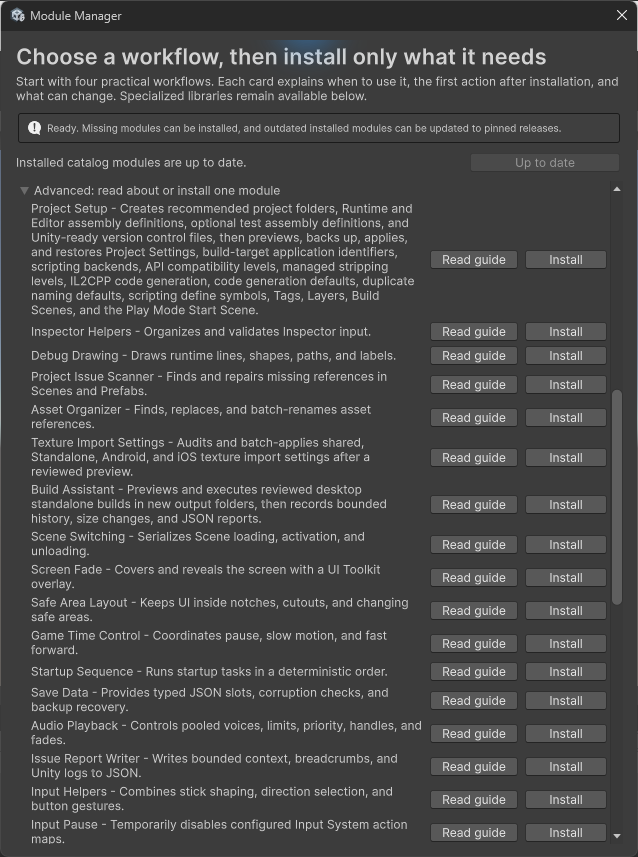
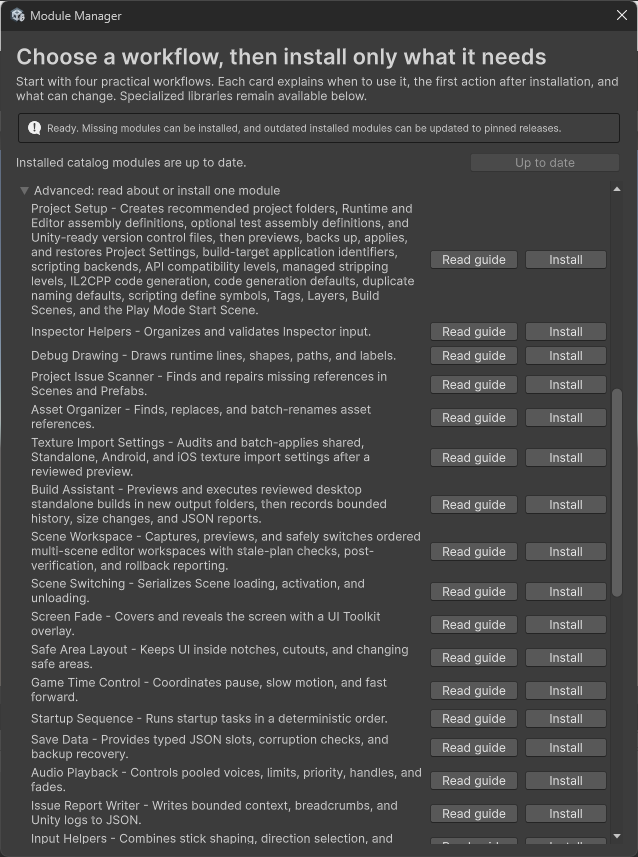
other (Module Manager配布情報): 43件の用途とScene Workspaceの操作順を画面から判断できるようにする為、README・利用文書・実画面画像を更新

Changed region(s): [[0.0298, 0.6068, 0.9828, 1.0], [0.4467, 0.0303, 0.5361, 0.0607]]

diff --git a/ModuleInstaller/Documentation~/index.md b/ModuleInstaller/Documentation~/index.md
@@ -1,4 +1,4 @@
-# Module Manager 1.4.8
+# Module Manager 1.4.9
 
 ## 目的
 
@@ -8,7 +8,7 @@
 
 `Tools > Module Manager > Open`を開き、次の順番で操作します。
 
-① やりたい作業に合うworkflowを選びます。最初は`Project Maintenance`を確認します。
+① やりたい作業に合うworkflowを選びます。画像では`Scene and UI`を選んでいます。
 
 ② card上部の概要を読み、`Quick guide`を開いて用途、最初の操作、変更範囲を確認します。
 
@@ -30,7 +30,7 @@
 
 導入済みmoduleに更新がある場合は、上部に`Module Name -> target version`が表示されます。対象を確認して`Update N`を押すと、古いversionだけを1回のPackage Manager要求で更新します。
 
-最初に42件の個別一覧を読む必要はありません。新規Projectの基本フォルダー、C#生成既定値、条件付きコンパイル記号、Texture import設定、Asset整理、desktop向けbuildは`Project Maintenance`、Scene切り替えやUIは`Scene and UI`、save・音声・reportは`Game Services`、入力補助は`Input Support`から確認します。決定論と細かなゲーム計算は`Specialized collections`へ分離しています。個別一覧は必要なmoduleが明確な場合や既存projectとの互換用です。
+最初に43件の個別一覧を読む必要はありません。新規Projectの基本フォルダー、C#生成既定値、条件付きコンパイル記号、Texture import設定、Asset整理、desktop向けbuildは`Project Maintenance`、編集作業ごとの複数Scene構成、Scene切り替え、UIは6件をまとめた`Scene and UI`、save・音声・reportは`Game Services`、入力補助は`Input Support`から確認します。決定論と細かなゲーム計算は`Specialized collections`へ分離しています。個別一覧は必要なmoduleが明確な場合や既存projectとの互換用です。
 
 Project Maintenanceの「プロジェクト一括設定」はv1.15.0へ固定されています。基本フォルダー、Runtime・Editor・test用asmdef、Unity向け`.gitignore`と`.gitattributes`をまとめて作成できます。既存fileは上書きせず、復元ではこのツールが作成して内容が変わっていないfileだけを削除します。利用者が編集したfile、既存フォルダー、Assetを追加したフォルダーは維持します。build target別Application Identifier・Scripting Backend・API Compatibility Level・Managed Stripping Level・IL2CPP Code Generation、C# Root Namespace、新規scriptの改行方式、複製時のGameObject・Asset命名規則、条件付きコンパイル記号、Tag・Layer・Sorting Layer、Player Build Scenes、Play Mode開始Sceneも同じprofileから適用・復元できます。
 
@@ -50,19 +50,34 @@ Project Maintenanceの「プロジェクト一括設定」はv1.15.0へ固定さ
 
 ⑤ `Build / Result / Export`の`Build Confirmed Plan`で確認済みの同じ計画だけを実行します。状態が変わっていればbuildを開始しません。完了後に結果、容量差、最大20件の履歴を確認し、必要な結果だけをJSONへ書き出します。
 
+Scene and UIの「シーン作業セット」はv1.0.0へ固定しています。複数Sceneの順番、Loaded、Activeを作業用Profileとして保存し、現在との差を確認してからEditorのScene構成を切り替えます。RuntimeのScene遷移は扱いません。
+
+`Tools > Scene Workspace > Open`を開き、次の5区分を上から順に進めます。
+
+① `Workspace Profile`で既存のProfileを選ぶか、`Create New Profile`で`Assets`以下へ新しく作ります。
+
+② `Scene Setup/Capture`でSceneを希望順に並べ、LoadedとActiveを設定します。現在開いている構成を使う場合は`Capture Current Setup Into Profile`で取り込みます。編集またはCaptureはProfileを変更済みにしますが、自動保存しません。
+
+③ `Preview Changes`で現在との差を確認します。この時点ではSceneを開閉せず、順番、Loaded、Activeも変更しません。
+
+④ `Review and Confirm`で閉じる、開く、読み込む、読み込み解除、並べ替える、Activeにする変更を確認し、確認欄をオンにします。Preview後に現在の構成またはProfileが変わった場合は③からやり直します。
+
+⑤ `Switch Workspace/Result`の`Switch Workspace`で、確認済みの同じ計画だけを1回適用します。結果欄では`Apply`と`Rollback`を分けて確認できます。Dirty Scene、無題Scene、欠損Scene、重複Sceneなどがある場合はSceneを変更する前に停止し、未保存変更を自動で保存・破棄しません。
+
 ## 変更される範囲
 
 - Module Managerの導入操作は`Packages/manifest.json`と`Packages/packages-lock.json`へ固定tagのpackageを追加します。
 - workflowを導入しただけでは、Project Settings、Scene、Prefab、Asset importerを変更しません。
-- 導入後の各toolは、それぞれの画面で対象を選び、previewとapplyを明示した範囲だけを変更します。
+- 導入後の各toolは、それぞれの画面で対象とPreview結果を確認し、適用、build、Scene切り替えを明示した範囲だけを変更します。
 - Build Assistantは確認済みbuildの実行時だけ選択した出力先へ新しい実行folderを作り、`Library/BuildAssistant`へ履歴を保存します。JSONは利用者が明示的に書き出した場合だけ作成します。
+- Scene Workspaceは`Create New Profile`を選んだ場合だけ`Assets`以下へ`SceneWorkspaceProfile`を作ります。Profileを編集するか現在の構成をCaptureした場合は選択Profileを変更済みにしますが、自動保存しません。PreviewはSceneを変更せず、確認後に`Switch Workspace`した場合だけEditorで開くScene、順番、Loaded、Activeを変更します。Dirty Scene、無題Scene、欠損Scene、重複Sceneなどがあれば変更前に停止し、Sceneの保存や変更破棄は行いません。
 
 ## 安全条件
 
 - catalogに無いpackage名は受理しません。
 - URLはrepository、subfolder、公開tagを固定し、任意入力を受けません。
 - 導入済みpackageは追加対象から除外します。
-- 更新対象は、導入済みversionを数値比較でき、catalogのversionより古いpackageだけです。新しいversionや独自versionは上書きしません。
+- 更新対象は、導入済みversionをSemVerとして比較でき、catalogのversionより古いpackageだけです。`preview`などのprereleaseもSemVer順で比較し、新しいversionや解析できない独自versionは上書きしません。
 - `Assets/Modules/<Folder>`が存在するmoduleは、assembly重複を避けるため導入を停止します。
 - 1回の操作は1つの`Client.AddAndRemove`要求として実行し、package削除は要求しません。
 - 失敗時はqueueを終了し、同じ要求を無限に再試行しません。
@@ -90,6 +105,6 @@ Unity Editor自体を終了すると`SessionState`は保証されません。再
 - installed packageの除外、選択重複の除外、入力順の保持
 - Assets copy競合とunknown packageのmutation前停止
 - 複数URLを1要求へまとめること
-- 古いversionだけを更新し、新しいversionや独自versionを変更しないこと
+- 安定版とprereleaseをSemVer順で比較し、古いversionだけを更新して新しいversionや独自versionを変更しないこと
 - 成功・失敗・domain reload相当のqueue復元
-- Editor windowの更新一覧、4 workflow card、折りたたみ済みの2専門collection、42個の個別導入行とREADME導線
+- Editor windowの更新一覧、4 workflow card、折りたたみ済みの2専門collection、43個の個別導入行とREADME導線

diff --git a/ModuleInstaller/CHANGELOG.md b/ModuleInstaller/CHANGELOG.md
@@ -1,5 +1,13 @@
 # Changelog
 
+## [1.4.9] - 2026-08-23
+
+- 「シーン作業セット」v1.0.0をcatalogとScene and UIへ追加しました。
+- Scene and UIを6件、個別一覧を43件へ拡張し、EditorのScene作業構成をRuntimeのScene遷移より前へ配置しました。
+- package導入、Profile作成・編集・Capture、確認済みScene構成の切り替えが変更する範囲を分けて明記しました。
+- catalog、bundle順、Editor windowの表示順と個別導線を回帰testで固定しました。
+- 導入済みprereleaseをSemVer順で比較し、公開済み安定版への更新を誤って不要扱いしないようにしました。
+
 ## [1.4.8] - 2026-08-23
 
 - 「ビルド実行アシスタント」v1.0.0をcatalogとProject Maintenanceへ追加しました。
